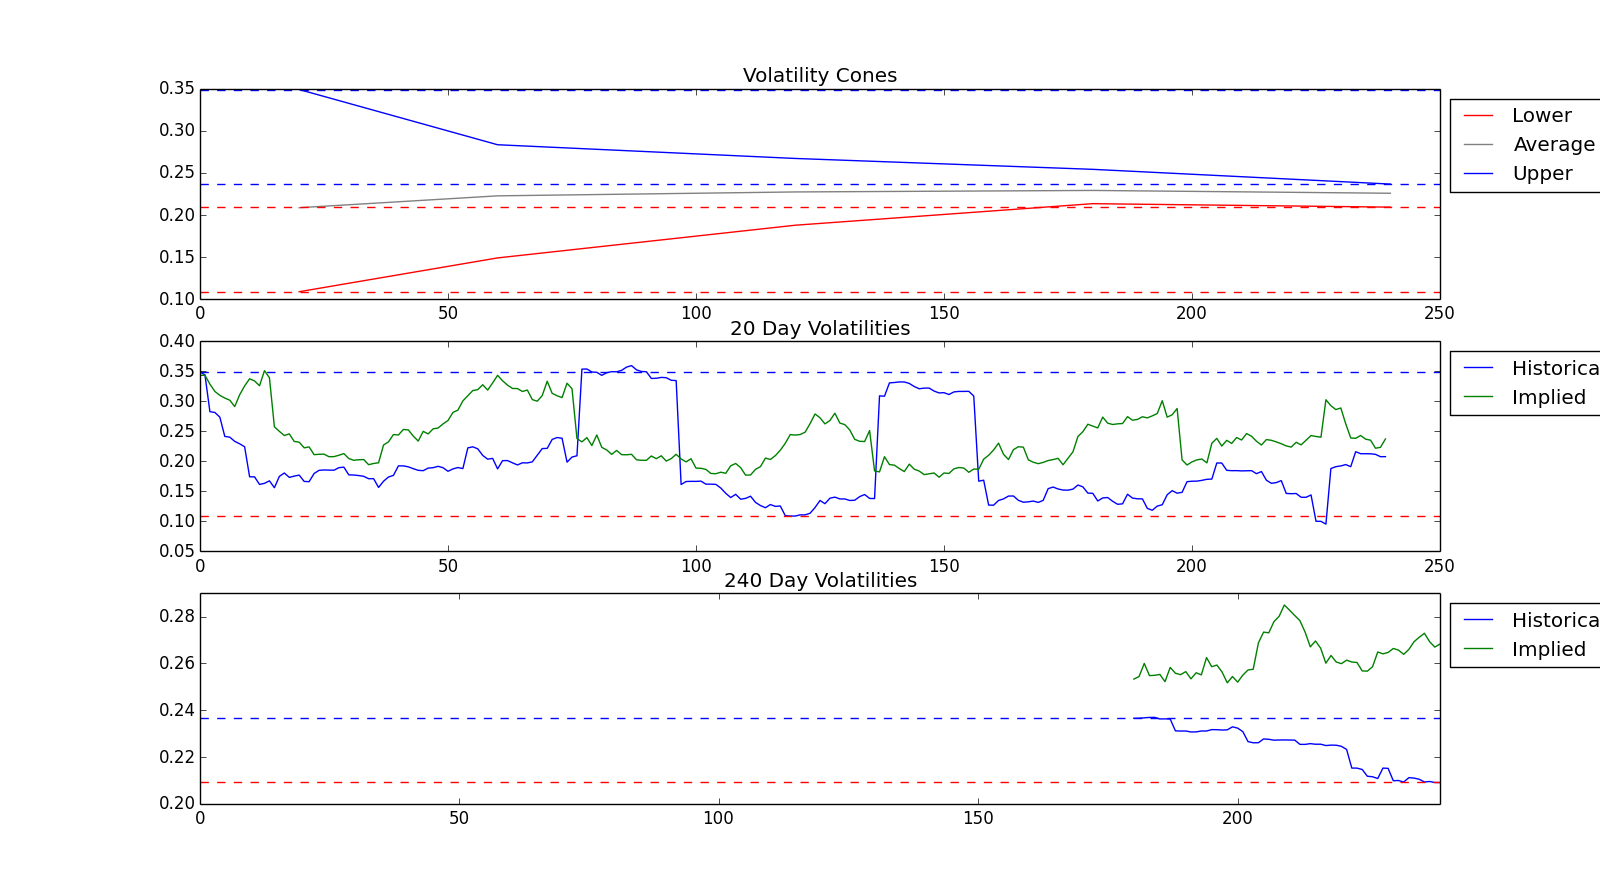
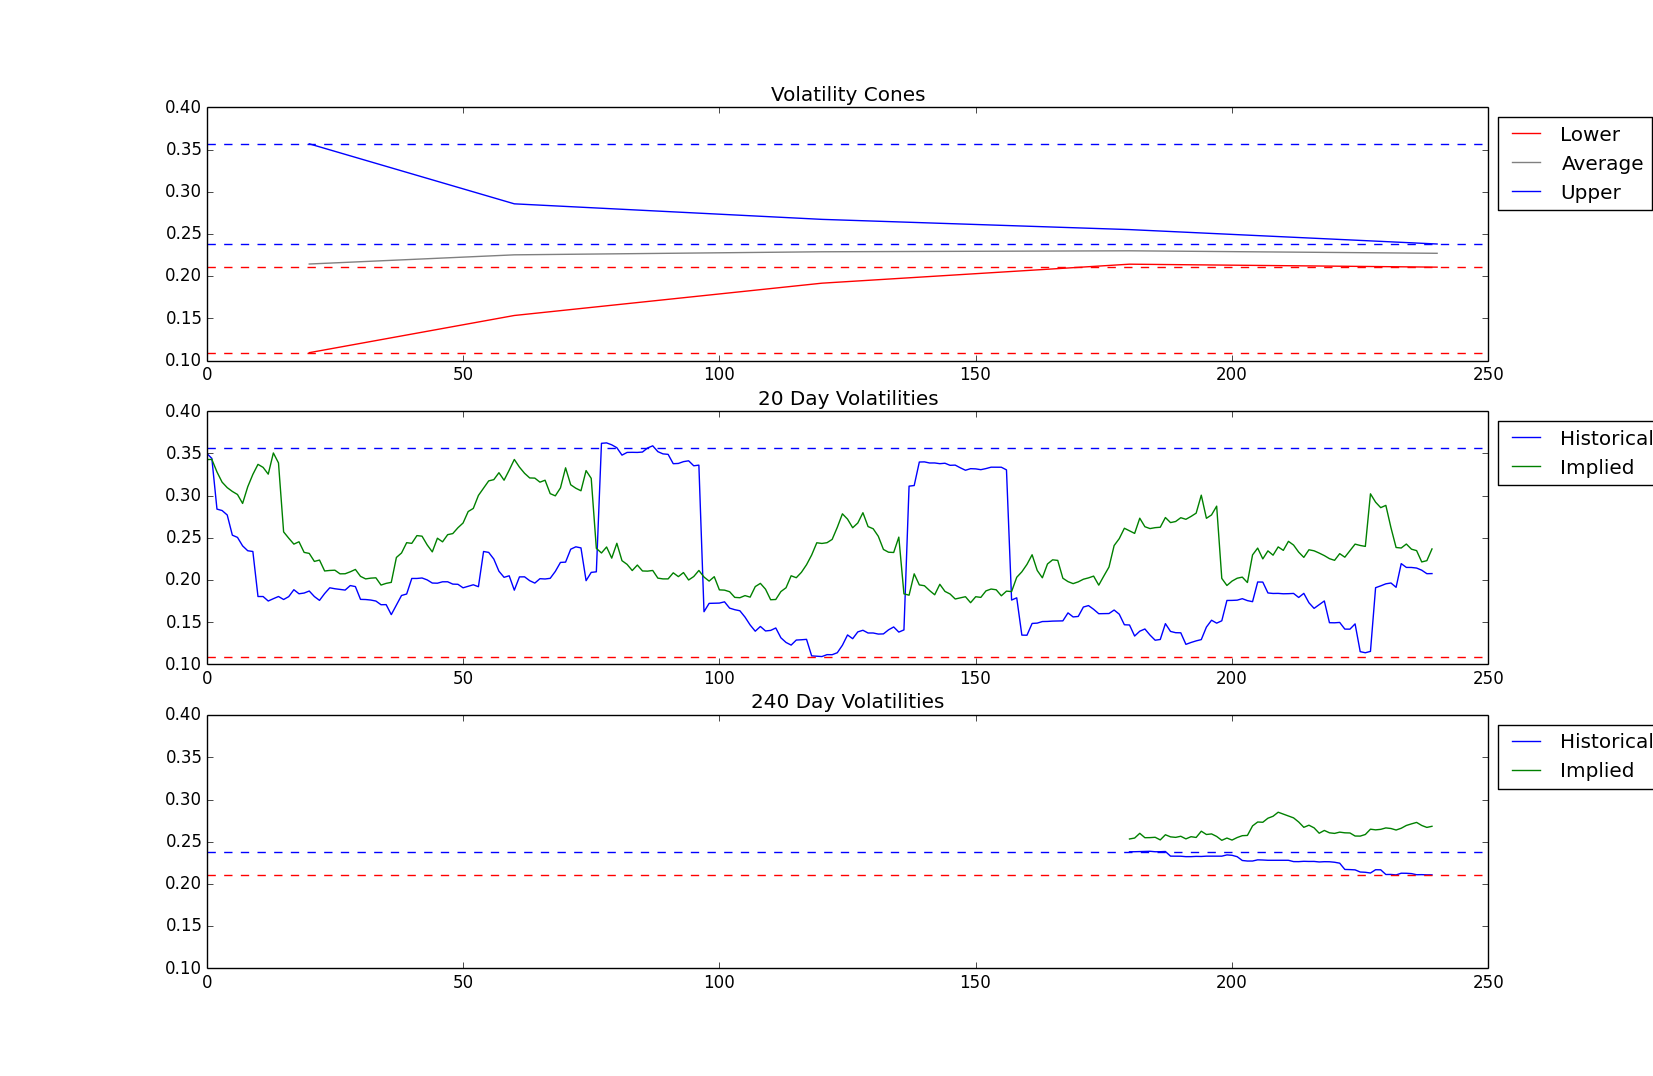
Refined image and brought axes in charts in line with one another

diff --git a/python/cones/volatility_cones.py b/python/cones/volatility_cones.py
@@ -53,6 +53,8 @@ def main():
     axhline(lower[0], linestyle='dashed', color='red')
     axhline(upper[0], linestyle='dashed', color='blue')
     ax2.set_title('20 Day Volatilities')
+    ax2.set_xlim(ax1.get_xlim())
+    ax2.set_ylim(ax1.get_ylim())
     legend(bbox_to_anchor=(1., 1.), loc=2)
 
     # We only want to plot implied vol. where we have a value for historical
@@ -64,8 +66,8 @@ def main():
     axhline(lower[-1], linestyle='dashed', color='red')
     axhline(upper[-1], linestyle='dashed', color='blue')
     ax3.set_title('240 Day Volatilities')
-    # Ensure x-axis is not truncated in chart
-    ax3.set_xlim(left=x[0], right=x[-1])
+    ax3.set_xlim(ax1.get_xlim())
+    ax3.set_ylim(ax1.get_ylim())
     legend(bbox_to_anchor=(1., 1.), loc=2)
     show()
 
